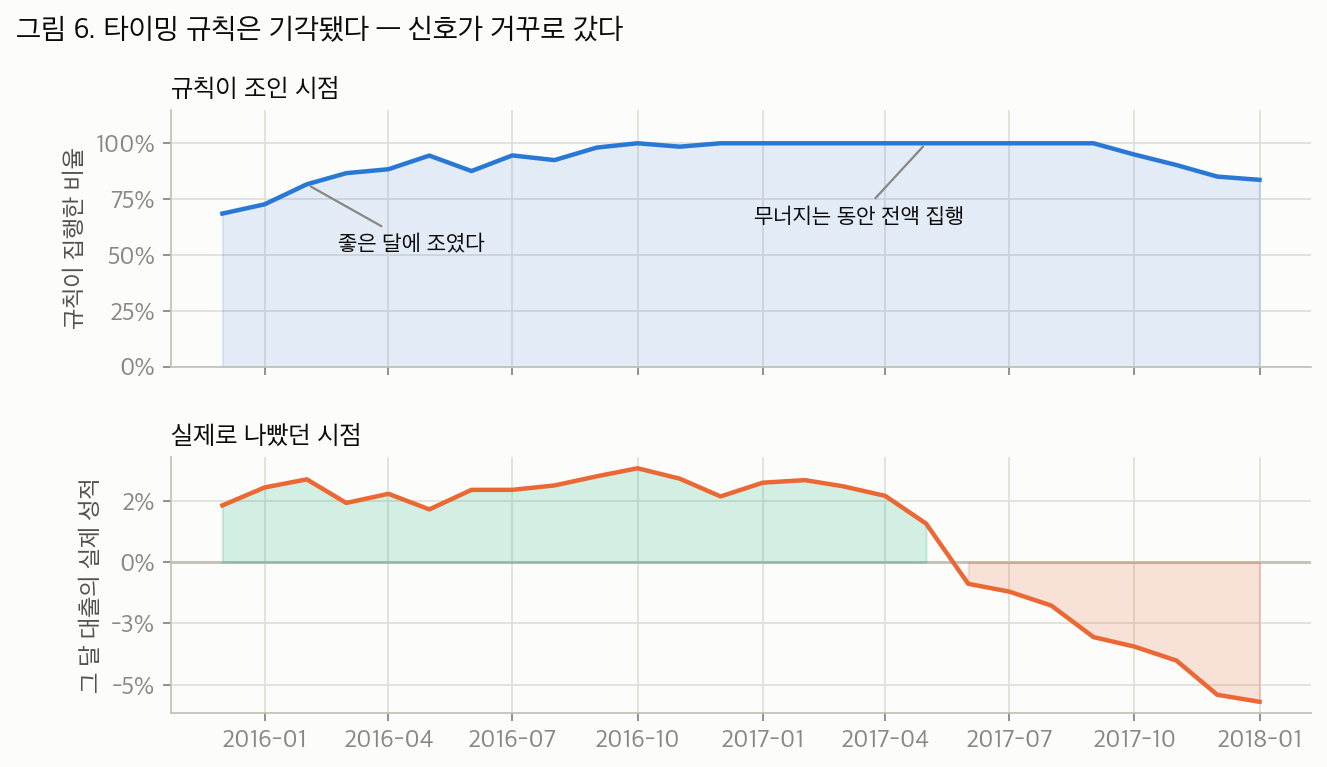
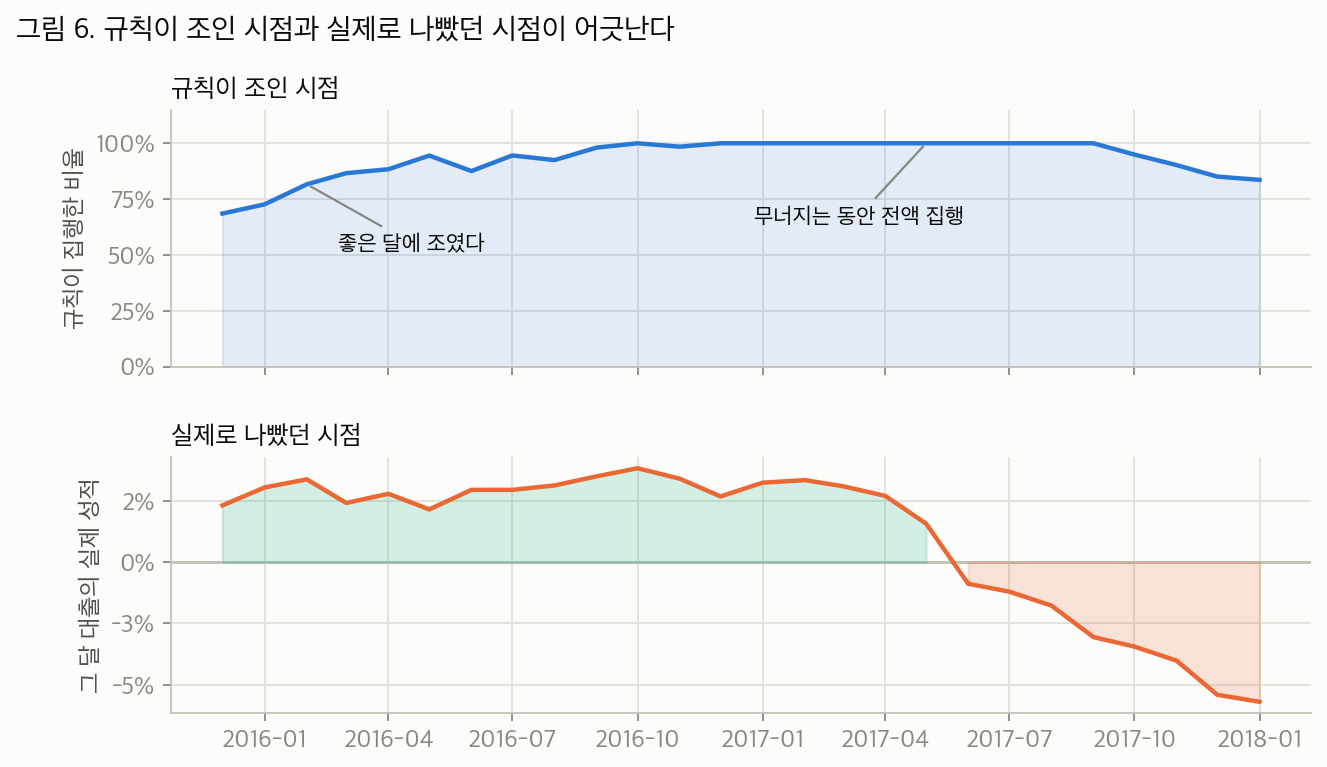
Calibrate the timing verdict to what the sample can actually support
The report applied its own evidentiary standard asymmetrically: it hedged
the Sharpe level carefully but declared the timing rule "기각" and
"원리적으로 불가능", which failing to reject a null with a differenced
effective sample size of 2.11 cannot establish.

- 2.3.2 now separates what is observed (the dial moved counter to
  realized outcomes) from what is inferred (contribution indistinguishable
  from zero) from what is not established (that timing is impossible),
  and states the power limit plus the effect-size bound the CI does give
- Abstract, 1.3, 3.1, 3.2, and the 2.3.5 summary reworded from "기각" to
  "0과 구별되지 않아 채택하지 않았다", with the reason stated as declining
  to adopt what is unproven rather than having disproved it
- 그림 6 title changed from "타이밍 규칙은 기각됐다" to a descriptive one so
  the figure no longer asserts more than the text; figures regenerated

Changed region(s): [[0.0618, 0.0, 0.4943, 0.06]]

diff --git a/src/figures.py b/src/figures.py
@@ -295,7 +295,7 @@ def fig_dial(dial):
                      ha="center", color=INK, fontsize=10, weight="bold",
                      arrowprops=dict(arrowstyle="-", color=MUTED, lw=1))
 
-    fig.suptitle("그림 6. 타이밍 규칙은 기각됐다 — 신호가 거꾸로 갔다",
+    fig.suptitle("그림 6. 규칙이 조인 시점과 실제로 나빴던 시점이 어긋난다",
                  x=0.02, ha="left", fontsize=13, weight="bold", y=1.0)
     return _save(fig, "fig6_타이밍기각.png")
 
